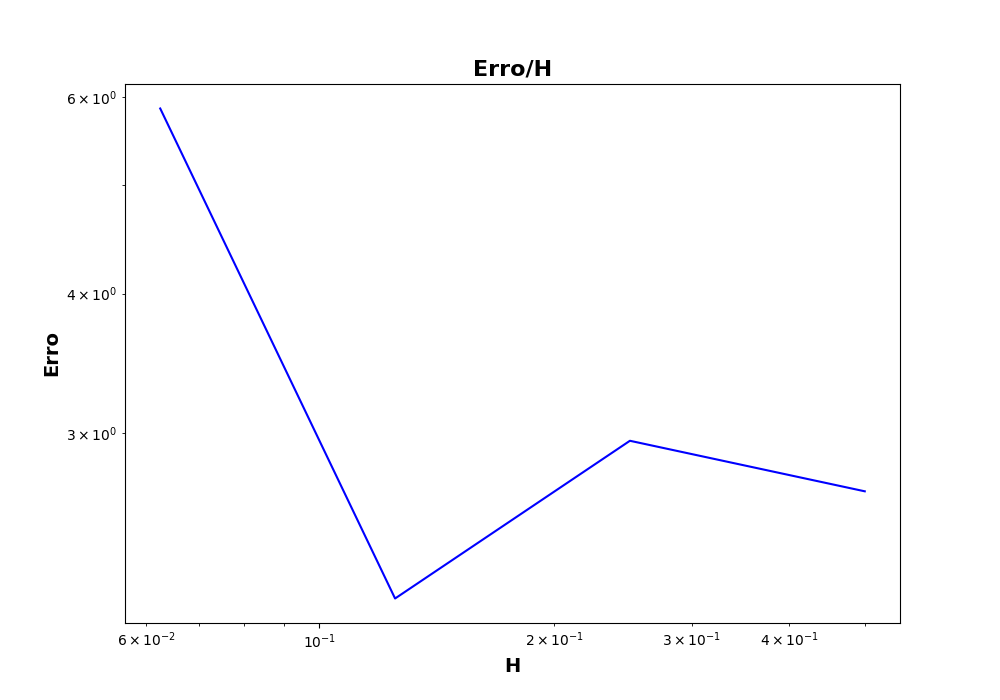
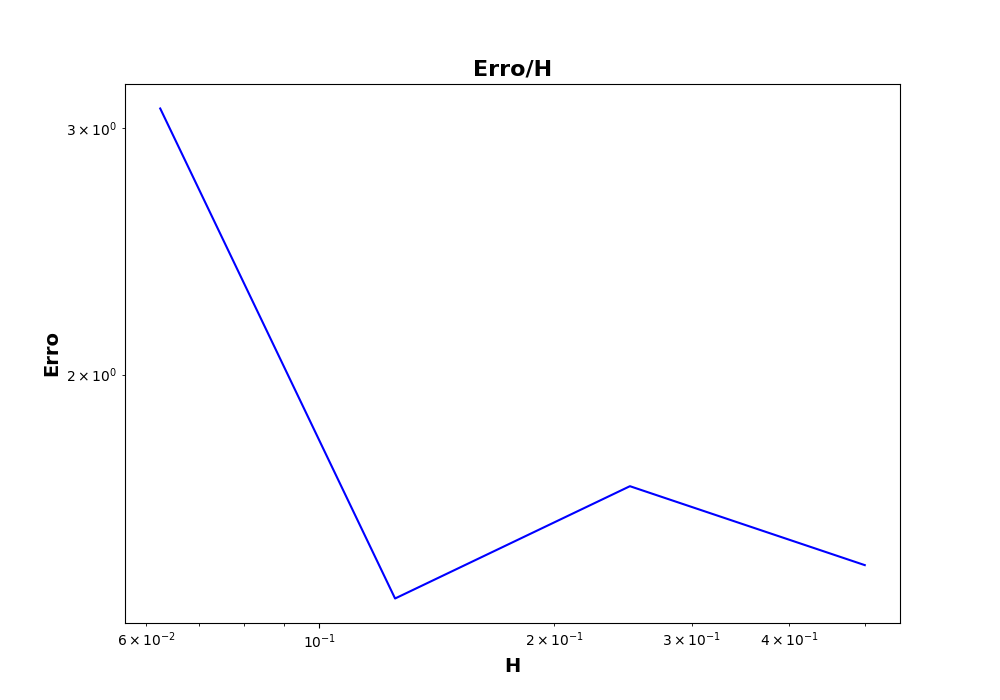
erros

diff --git a/01/functions.py b/01/functions.py
@@ -144,22 +144,23 @@ def valores_h_calc(a, h, tam_malha, k_2):
 
 # Função que calcula o vetor de truncamento
 def erro_calc(h, valores_referencia, valores_h):
-    truncamento = []
+    erros = []
 
     for i in range(0, len(h)):
 
-        erro_absoluto = np.abs(valores_referencia - valores_h[i])
-        norma_max = np.amax(np.abs(valores_referencia))
+        # TENTATIVA 1
+        # erro_absoluto = np.abs(valores_referencia - valores_h[i])
+        # norma_max = np.amax(np.abs(valores_referencia))
 
-        # Cálculo do erro de aproximação relativo
-        erro_relativo = np.amax(erro_absoluto) / norma_max
+        # erro_relativo = np.amax(erro_absoluto) / norma_max
 
-        # erro = np.linalg.norm(
-        #     valores_h[i] - valores_referencia)/np.linalg.norm(valores_referencia)
+        # TENTATIVA 2
+        erro_relativo = np.linalg.norm(
+            valores_h[i] - valores_referencia)/np.linalg.norm(valores_referencia)
 
-        truncamento.append(erro_relativo)
+        erros.append(erro_relativo)
 
-    return truncamento
+    return erros
 
 
 # Função que cria a tabela com os resultados
